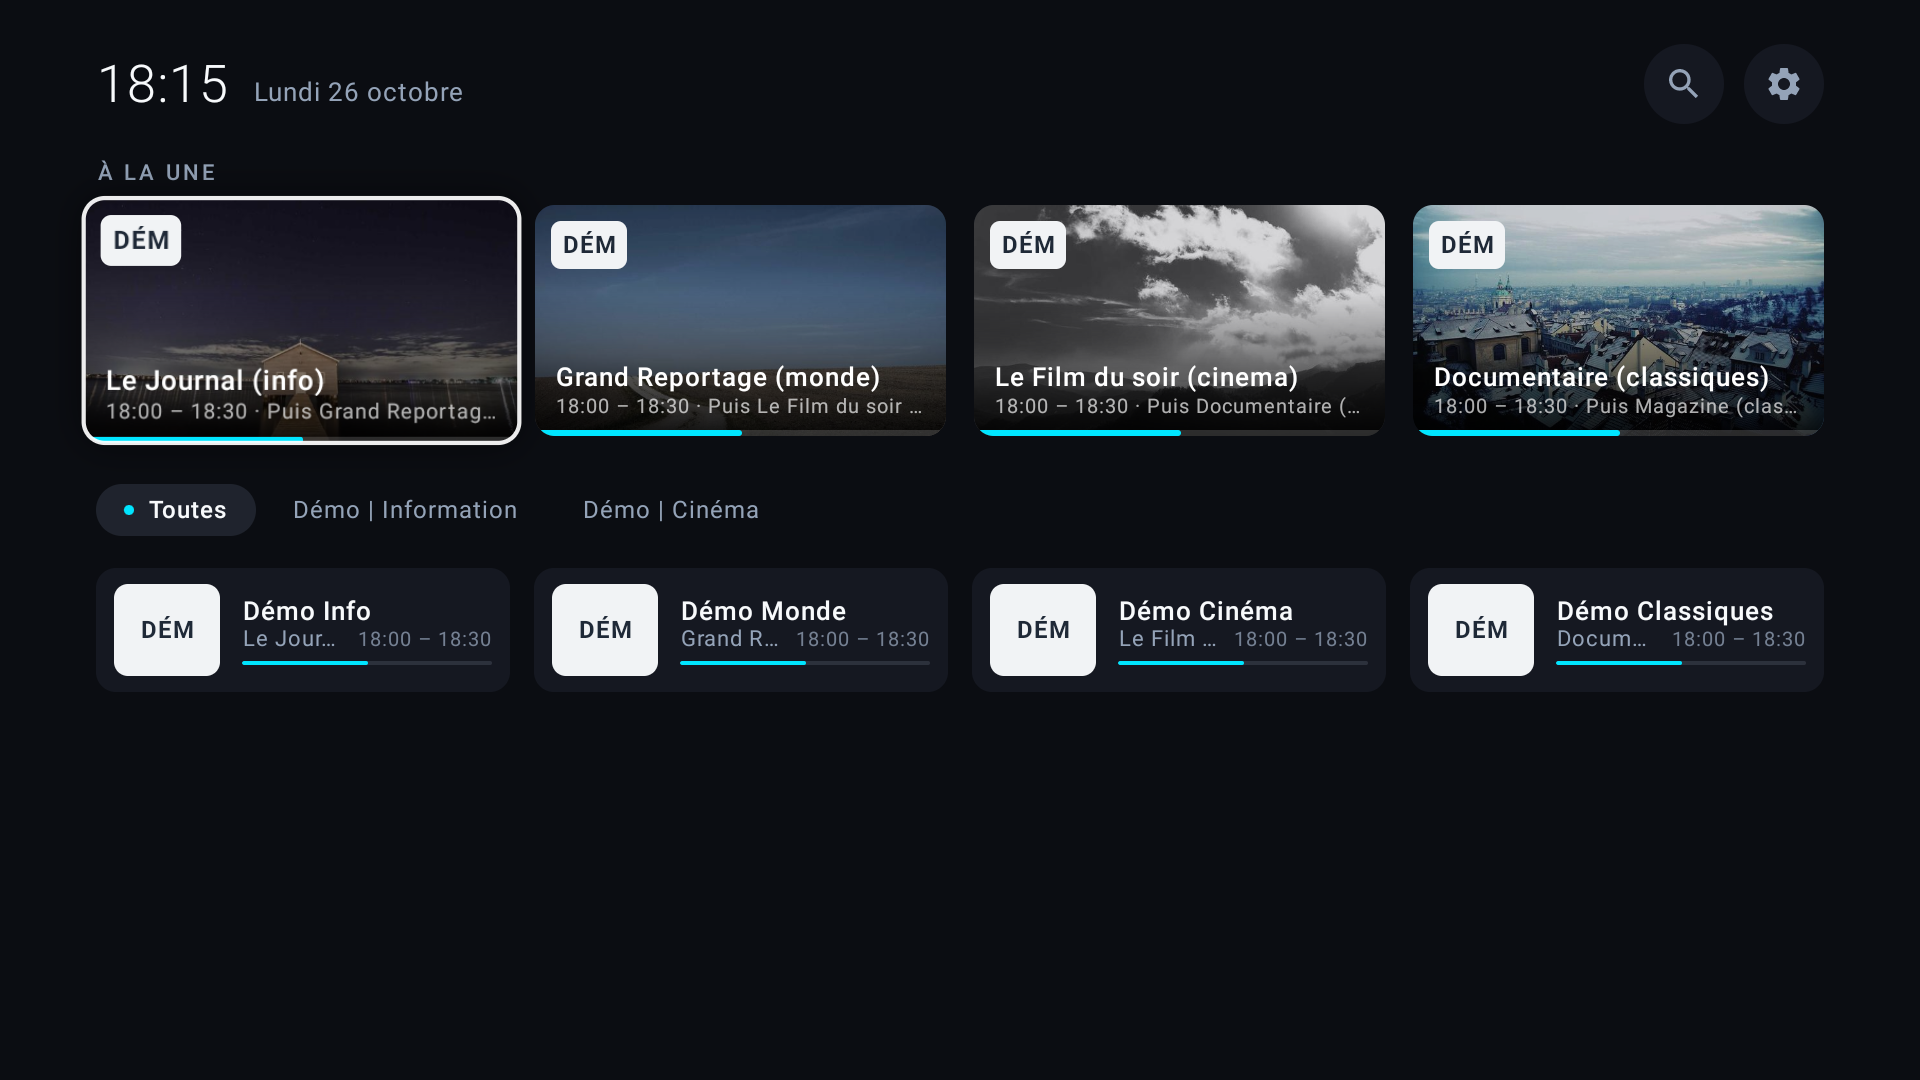
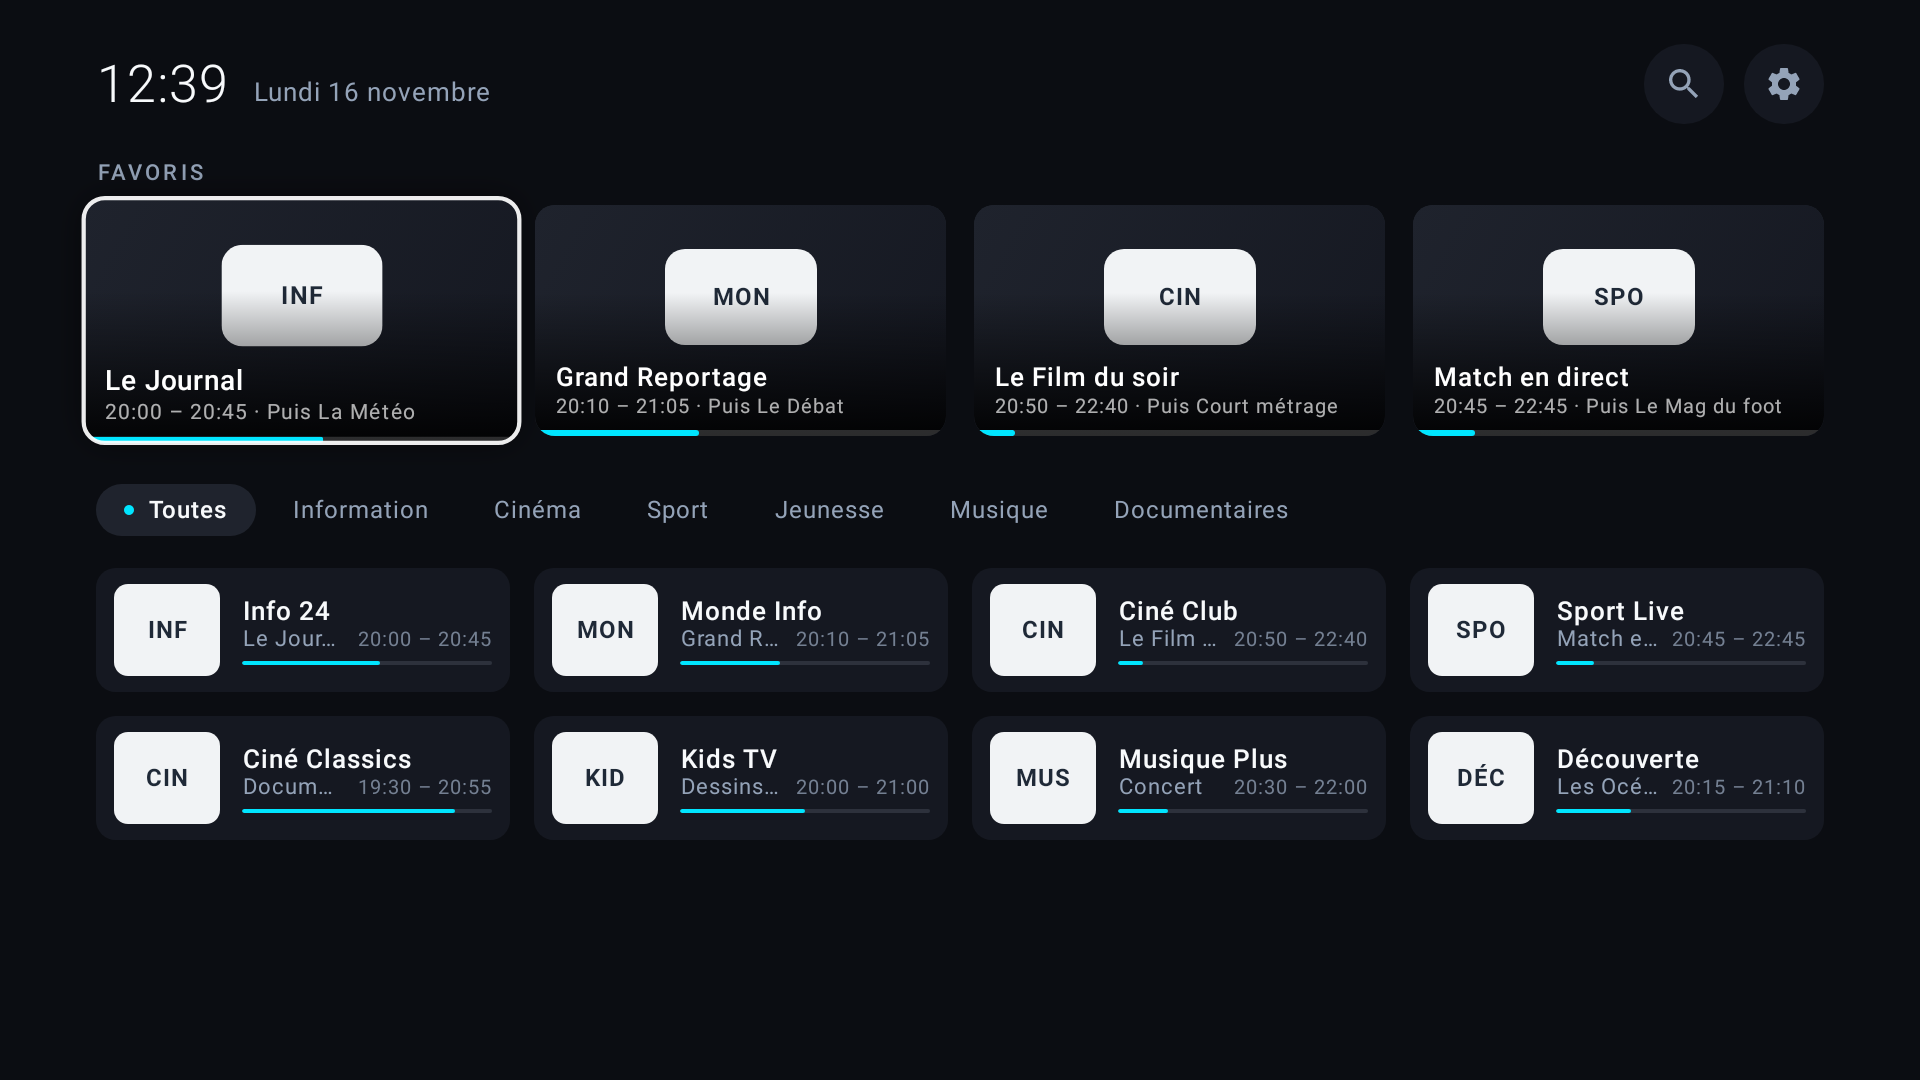
docs: README screenshots drawn on the JVM
The home (classic and immersive), search, settings and profile screens are drawn by
Robolectric in French with demo data; the Screenshots workflow proposes them again.

diff --git a/app/src/test/java/io/github/sim7b/tele/ui/ReadmeScreenshots.kt b/app/src/test/java/io/github/sim7b/tele/ui/ReadmeScreenshots.kt
@@ -1,0 +1,199 @@
+package io.github.sim7b.tele.ui
+
+import android.app.Application
+import android.graphics.Bitmap
+import android.graphics.Canvas
+import androidx.activity.ComponentActivity
+import androidx.compose.runtime.Composable
+import androidx.compose.ui.input.key.Key
+import androidx.compose.ui.test.ExperimentalTestApi
+import androidx.compose.ui.test.isRoot
+import androidx.compose.ui.test.junit4.createAndroidComposeRule
+import androidx.compose.ui.test.onRoot
+import androidx.compose.ui.test.performKeyInput
+import androidx.compose.ui.test.performTextInput
+import androidx.compose.ui.test.pressKey
+import androidx.compose.ui.test.hasSetTextAction
+import io.github.sim7b.tele.data.model.Channel
+import io.github.sim7b.tele.data.model.EpgProgram
+import io.github.sim7b.tele.data.model.HomeRow
+import io.github.sim7b.tele.data.storage.Profile
+import io.github.sim7b.tele.data.storage.SecretBox
+import io.github.sim7b.tele.data.storage.SettingsRepository
+import io.github.sim7b.tele.ui.screens.HomeScreen
+import io.github.sim7b.tele.ui.screens.ImmersiveHomeScreen
+import io.github.sim7b.tele.ui.screens.ProfileChoice
+import io.github.sim7b.tele.R
+import io.github.sim7b.tele.ui.theme.LocalAppColors
+import androidx.compose.foundation.background
+import androidx.compose.foundation.layout.Box
+import androidx.compose.foundation.layout.fillMaxSize
+import androidx.compose.runtime.remember
+import androidx.compose.ui.Modifier
+import androidx.compose.ui.focus.FocusRequester
+import androidx.compose.ui.res.stringResource
+import io.github.sim7b.tele.ui.screens.SearchScreen
+import io.github.sim7b.tele.ui.screens.SettingsScreen
+import io.github.sim7b.tele.ui.theme.TeleTheme
+import org.junit.Assume.assumeTrue
+import org.junit.Rule
+import org.junit.Test
+import org.junit.runner.RunWith
+import org.robolectric.RobolectricTestRunner
+import org.robolectric.RuntimeEnvironment
+import org.robolectric.annotation.Config
+import org.robolectric.annotation.ConscryptMode
+import org.robolectric.annotation.GraphicsMode
+import java.io.File
+import javax.crypto.KeyGenerator
+
+/**
+ * The screenshots of the README (docs/screenshots), drawn on the JVM in French at 1920 x 1080 with demo data.
+ * Only written when asked: ./gradlew testDebugUnitTest --tests '*ReadmeScreenshots*' -Ptele.screenshots=docs/screenshots
+ */
+@OptIn(ExperimentalTestApi::class)
+@RunWith(RobolectricTestRunner::class)
+@GraphicsMode(GraphicsMode.Mode.NATIVE)
+@Config(sdk = [34], application = Application::class, qualifiers = "fr-w960dp-h540dp-land-television-xhdpi")
+@ConscryptMode(ConscryptMode.Mode.OFF)
+class ReadmeScreenshots {
+
+    @get:Rule
+    val compose = createAndroidComposeRule<ComponentActivity>()
+
+    private val folder: File? = System.getProperty("tele.screenshots")?.takeIf { it.isNotBlank() }?.let(::File)
+
+    private fun program(title: String, category: String, start: String, end: String, progress: Float, next: String) =
+        EpgProgram(title = title, category = category, startTime = start, endTime = end, progress = progress, nextTitle = next, nextStartTime = end)
+
+    private val channels = listOf(
+        Channel("1", "Info 24", "Information", streamUrl = "http://demo.test/1", number = 1,
+            currentProgram = program("Le Journal", "Information", "20:00", "20:45", 0.55f, "La Météo")),
+        Channel("2", "Monde Info", "Information", streamUrl = "http://demo.test/2", number = 2,
+            currentProgram = program("Grand Reportage", "Documentaire", "20:10", "21:05", 0.4f, "Le Débat")),
+        Channel("3", "Ciné Club", "Cinéma", streamUrl = "http://demo.test/3", number = 3,
+            currentProgram = program("Le Film du soir", "Film", "20:50", "22:40", 0.1f, "Court métrage")),
+        Channel("4", "Sport Live", "Sport", streamUrl = "http://demo.test/4", number = 4,
+            currentProgram = program("Match en direct", "Football", "20:45", "22:45", 0.15f, "Le Mag du foot")),
+        Channel("5", "Ciné Classics", "Cinéma", streamUrl = "http://demo.test/5", number = 5,
+            currentProgram = program("Documentaire", "Histoire", "19:30", "20:55", 0.85f, "Magazine")),
+        Channel("6", "Kids TV", "Jeunesse", streamUrl = "http://demo.test/6", number = 6,
+            currentProgram = program("Dessins animés", "Animation", "20:00", "21:00", 0.5f, "Le Conte")),
+        Channel("7", "Musique Plus", "Musique", streamUrl = "http://demo.test/7", number = 7,
+            currentProgram = program("Concert", "Musique", "20:30", "22:00", 0.2f, "Clips")),
+        Channel("8", "Découverte", "Documentaires", streamUrl = "http://demo.test/8", number = 8,
+            currentProgram = program("Les Océans", "Nature", "20:15", "21:10", 0.3f, "Les Volcans"))
+    )
+
+    // A photo-like picture (full-screen gradients) as JPEG: a PNG of it passes the 500 kB of the pre-commit hooks
+    private fun shoot(name: String, settle: () -> Unit = {}, jpeg: Boolean = false, content: @Composable () -> Unit) {
+        assumeTrue("Screenshots are written with -Ptele.screenshots=<folder>", folder != null)
+        compose.setContent {
+            TeleTheme {
+                Box(Modifier.fillMaxSize().background(LocalAppColors.current.background)) { content() }
+            }
+        }
+        compose.mainClock.advanceTimeBy(1_500)
+        compose.waitForIdle()
+        settle()
+        compose.mainClock.advanceTimeBy(1_000)
+        compose.waitForIdle()
+        // The window drawn in software: the capture of compose-test waits for a frame Robolectric does not give
+        var image: Bitmap? = null
+        compose.activityRule.scenario.onActivity { activity ->
+            val view = activity.window.decorView.rootView
+            image = Bitmap.createBitmap(view.width, view.height, Bitmap.Config.ARGB_8888).also { view.draw(Canvas(it)) }
+        }
+        folder!!.mkdirs()
+        val format = if (jpeg) Bitmap.CompressFormat.JPEG else Bitmap.CompressFormat.PNG
+        File(folder, if (jpeg) "$name.jpg" else "$name.png").outputStream().use { image!!.compress(format, 90, it) }
+    }
+
+    @Test
+    fun home() = shoot("home") {
+        HomeScreen(
+            channels = channels,
+            favorites = channels.take(4),
+            hasSource = true,
+            favoriteIds = channels.take(4).map { it.id },
+            isLoading = false,
+            onChannelSelected = {},
+            onToggleFavorite = {},
+            onHideChannel = {},
+            loadStreams = { Result.success(emptyList()) },
+            onSelectStream = { _, _ -> },
+            onMoveFavorite = { _, _ -> },
+            onHideCategory = {},
+            automaticStreamDescription = { "" },
+            onOpenSettings = {},
+            onOpenSearch = {},
+            onRefresh = {}
+        )
+    }
+
+    @Test
+    fun immersive() = shoot("immersive", jpeg = true) {
+        ImmersiveHomeScreen(
+            channels = channels,
+            favorites = channels,
+            rows = setOf(HomeRow.CATEGORIES),
+            favoriteIds = channels.map { it.id },
+            onChannelSelected = {},
+            onToggleFavorite = {},
+            onHideChannel = {},
+            loadStreams = { Result.success(emptyList()) },
+            onSelectStream = { _, _ -> },
+            automaticStreamDescription = { "" },
+            onOpenSettings = {},
+            onOpenSearch = {}
+        )
+    }
+
+    @Test
+    fun search() = shoot(
+        "search",
+        settle = {
+            compose.onNode(hasSetTextAction()).performTextInput("ciné")
+            compose.mainClock.advanceTimeBy(600)
+            compose.waitForIdle()
+            compose.onRoot().performKeyInput { pressKey(Key.DirectionDown) }
+        }
+    ) {
+        SearchScreen(channels = channels, startWithVoice = false, onChannelSelected = {}, onBack = {})
+    }
+
+    @Test
+    fun settings() {
+        val key = KeyGenerator.getInstance("AES").apply { init(256) }.generateKey()
+        SettingsRepository.secretsFactory = { SecretBox({ key }, cbcTransformation = "AES/CBC/PKCS5Padding") }
+        try {
+            val repository = SettingsRepository(RuntimeEnvironment.getApplication())
+            shoot(
+                "settings",
+                settle = {
+                    // The playback section, its first setting focused
+                    repeat(2) { compose.onAllNodes(isRoot())[0].performKeyInput { pressKey(Key.DirectionDown) } }
+                    compose.onAllNodes(isRoot())[0].performKeyInput { pressKey(Key.DirectionRight) }
+                }
+            ) {
+                SettingsScreen(repository = repository, onTestConnection = { Result.failure(Exception()) }, onBack = {})
+            }
+        } finally {
+            SettingsRepository.secretsFactory = { SecretBox.androidKeystore() }
+        }
+    }
+
+    @Test
+    fun profiles() {
+        val profiles = listOf(
+            Profile(Profile.MAIN, "Alex"),
+            Profile("0123456789ab", "Camille", pinSalt = "s", pinHash = "h"),
+            Profile("0123456789ac", "Léa", kids = true),
+            Profile("0123456789ad", "Invités")
+        )
+        shoot("profiles") {
+            // The picker without its dialog window
+            ProfileChoice(profiles, profiles.first(), stringResource(R.string.profile_picker_title), remember { FocusRequester() }) {}
+        }
+    }
+}

diff --git a/README.md b/README.md
@@ -4,14 +4,17 @@ IPTV player for **Android TV / Google TV**, designed for the remote: live TV, pr
 
 Channels come from a **[Dispatcharr](https://github.com/Dispatcharr/Dispatcharr)** server, an **Xtream Codes** subscription or an **M3U playlist**.
 
-![Home](docs/screenshots/home.png)
+| Immersive home | Classic home |
+|---|---|
+| ![Immersive home](docs/screenshots/immersive.jpg) | ![Classic home](docs/screenshots/home.png) |
 
 ## Features
 
+- **Two styles**, chosen at the first launch and changed in **Settings → Appearance**: immersive (the program or title in focus over the whole screen) or classic, the light one for small devices.
 - **Home**: 8 favorite tiles with the artwork of the current program, categories and channel grid (program, times, progress).
 - **Channel preview** on the home screen: the selected channel plays without sound in its tile (or in place of the logo in the grid) after a chosen delay (immediate to 5 seconds, or off), and keeps playing when opened.
 - Reorderable **favorites** on the grid, hideable **channels** and **categories**; categories can be **renamed** and **moved** (hold OK on a category); sources can be reordered in the settings.
-- **Several sources at once**: the channels of every enabled source are shown together; categories with the same name are merged or kept apart per source (setting).
+- **Several sources at once**: the channels of every enabled source are shown together; categories with the same name are merged or kept apart per source (setting). When a channel of an Xtream or M3U source fails, the same channel of another one is played instead (Dispatcharr fails over by itself, on the server).
 - **Reference bouquet** (France: TNT with the 2025 Arcom numbering + Canal+; Belgium, Switzerland and Canada: national channels then the French ones): channels are recognized whatever the provider spelling ("FR | TF1 FHD", "TF1 ᴴᴰ"), get their proper name, usual number and Canal+-style category, and their HD / FHD / 4K versions become one channel whose versions are its streams. Provider categories are cleaned and grouped by meaning ("Sport", "FR | Sports", "France Sport"). **Settings** lists the channels the bouquet does not recognize.
 - **Search** by channel name, number or current program, typed with the TV keyboard or spoken (microphone button, or the remote's search key).
 - **Player** (Media3 / ExoPlayer, hardware decoding):
@@ -34,6 +37,12 @@ Channels come from a **[Dispatcharr](https://github.com/Dispatcharr/Dispatcharr)
   - **replay** (Xtream accounts with catch-up): the programs of the past day kept by the provider are marked REPLAY in the grid and the channel panel, and OK plays them again with the movie player (seek, pause).
 - **Welcome screen** "Good morning / Good evening" with the account first name, shown while loading.
 - **Quick start guide** on the first launch: the main remote gestures in four pages, available again in **Settings → System**.
+- **Profiles** (**Settings → Profiles**): each member of the family has their own favorites, positions, my list and collections; a profile can ask a 4-digit code, and a kids profile always keeps the locks of the parental control. "Who is watching?" is asked at startup when the TV has several profiles.
+
+  ![Profiles](docs/screenshots/profiles.png)
+
+- **Buffer** (**Settings → Playback**): small to maximum, for a weak connection or a small device.
+- **Language of foreign movies and series** (**Settings → Movies and series**): dubbed in the language of the TV, or the original version with subtitles in it.
 - **Copy to another TV**: the whole configuration (sources, favorites, categories, settings) is sent over the local network, encrypted with an 8-digit code shown on the sending TV.
 - **Appearance**: 6 backgrounds including a light theme, 6 accent colors, 3 interface densities.
 - **Settings** by section (Sources, Channels, Playback, Appearance, System): a menu on the left, the section on the right.
@@ -158,6 +167,8 @@ Technical choices:
 - Tooling is pinned in `mise.toml` (JDK, Node for semantic-release, [prek](https://github.com/j178/prek)), with a 7-day minimum release age.
 - Install the git hooks once: `prek install --install-hooks` (YAML, GitHub Actions security with zizmor, conventional commit messages).
 - Tests and lint: `./gradlew testDebugUnitTest lintDebug`.
+- README screenshots, drawn on the JVM with demo data: `./gradlew testDebugUnitTest --tests '*ReadmeScreenshots*' -Ptele.screenshots=docs/screenshots` (also the **Screenshots** workflow).
+- Startup profile (Baseline Profile): generated on an emulator by the **Baseline profile** workflow, which opens a pull request with `app/src/main/generated/baselineProfiles`.
 - Commits follow [Conventional Commits](https://www.conventionalcommits.org): on each push to `main`, [semantic-release](https://semantic-release.gitbook.io) computes the version (`feat`, `fix` and `perf` bump the patch number, breaking changes the minor one), updates `CHANGELOG.md` and `gradle.properties`, builds the signed APK and publishes the GitHub release.
 
 ## Privacy
